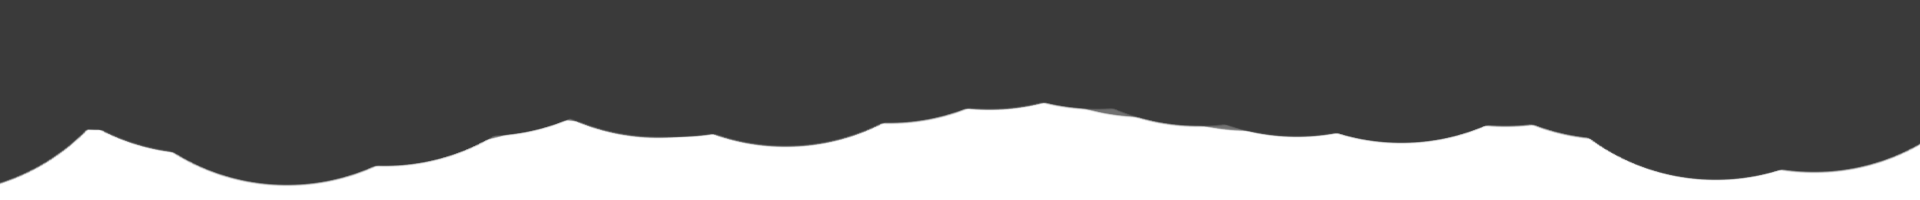
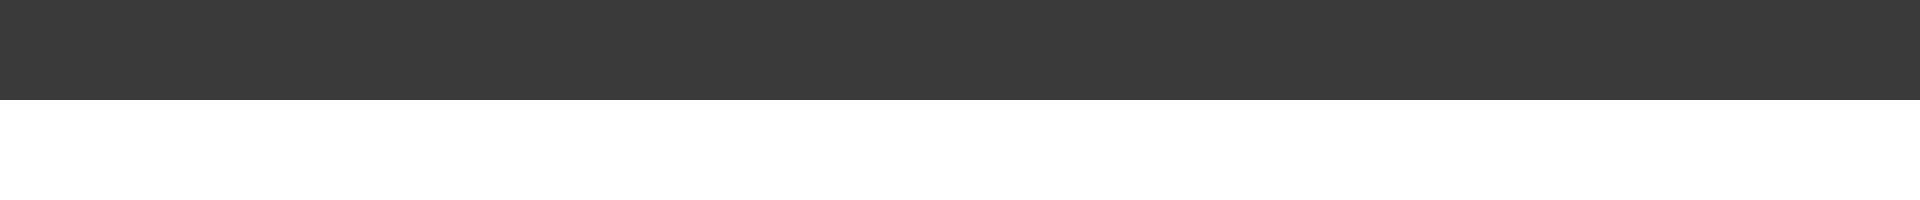
Add files via upload

Changed region(s): [[0.0, 0.48, 1.0, 0.93]]

diff --git a/index.html b/index.html
@@ -25,7 +25,7 @@
 
 		<a name="Arrival"></a>
 
-		<div class="dividerMarginFix">
+		<div class="dividerMarginFix2">
 			<img class="center-expand" src="Border-Arrival_Light.png">
 		</div>
 
@@ -44,7 +44,7 @@
 			<br /> Hannah:   <b><i>That’s it.</i></b>
 			
 			<p>I turn, readying my <b><i>I called it</i></b> look... no response from Natalie.</p>
-			<p>Non-zero-sum games are central to <em>Game Theory</em> and a personal fascination. This site is not a primer on the subject, but something personal that explores ducks in and out of this subject, and uses it to make sense of life.</p>
+			<p>Non-zero-sum games are central to <em>Game Theory</em> and are a personal fascination. This site is not a primer on non-zero-sum games or game theory, but a personal exploration that ducks in and out of these subjects. The non-zero-sum game underpins much of my thinking and creativity. I am a creative generalist and this psuedo-blog will be made up of essays, games, artwork and video - that illustrate one person's attempt to understand the nature of existence.</p>
 
 		</div>
 
@@ -65,6 +65,9 @@
 					<li><a href="#Arrival">Arrival</a></li>
 					<li><a href="#Navigation">Navigation</a></li>
 					<li><a href="#Memories01">Memories: A Recurring Dream</a></li>
+					<li><a href="#InfiniteRant">Infinite Rant</a></li>
+					<li><a href="#Graviton">Graviton</a></li>
+					<li><a href="#CosmicLottery">The Cosmic Lottery</a></li>
 				</ul>
 
 				<p>Many of these experiments are hosted at the fabulous indie game site <a href="https://nonzerosum.itch.io" target="_blank">itch.io</a></p>
@@ -93,6 +96,75 @@
 		<br>
 		<br>
 
+		<div class="dividerMarginFix">
+			<img class="center-expand" src="Border-Nodes_Dark.png">
+		</div>
 	</section>
+
+	<section id="Dark">
+
+		<a name="InfiniteRant"></a>
+		
+		<div class="textbox">
+				<h1>INFINITE RANT</h1>
+			<p>A non-linear interactive essay, that got away on me somewhat...</p>
+			  <br>
+		</div>
+
+		<div style="width: 960px; height: 590px; overflow: hidden; display: inline-block;">
+			<iframe frameborder="0" src="https://itch.io/embed-upload/1854410?color=333333" allowfullscreen="" width="960" height="640"><a href="https://nonzerosum.itch.io/infinite-rant">Play Infinite Rant on itch.io</a></iframe>
+		</div>
+
+		<div class="dividerMarginFix">
+			<img class="center-expand" src="Border-Light.png">
+		</div>
+	</section>
+
+	<section id="Light">
+
+		<a name="CosmicLottery"></a>
+		
+		<div class="textbox">
+			<div class="left">
+
+			  <h1>THE COSMIC LOTTERY</h1>
+				
+			<p>Imagine you wake up one morning to a phone call, you’ve won a million dollars in the weekly lotto draw, but you don’t remember entering. The operator informs you that the government has, in a bizarre act of wealth redistribution, put your tax dollars towards a single lottery ticket every week for every person in the country. Somehow you have been completely ignorant of this fact for over a decade. You receive your cheque and are handed an NDA, in another bizarre twist it turns out the program is completely secretive, no one knows about this lottery until they win it.
+			<p></p>
+			What are the chances you would win such a competition? Well, since the lottery has been running for 10 years, all of the money each week is allotted to the winner and no one can win twice, you have a 1/2000 chance of winning. Not great odds. However, from the perspective of everyone who is aware of the lottery, the chances of winning are 100%.
+			<p></p>
+			We have no idea how many entries we’ve had in the cosmic lottery, but we know that all the other entries that did not win the prize of consciousness are not aware they haven’t won. The fact that we live in a universe where there exists beings that perceive the universe is actually unremarkable, on the contrary it is inescapable. If there were to be other universes or other possible universes that didn’t contain agents capable of perception they would never be perceived.</p>
+			  <br>
+            </div>
+		</div>
+
+		<div class="dividerMarginFix">
+			<img class="center-expand" src="Border-Nodes_Dark.png">
+		</div>
+	</section>
+
+	<section id="Dark">
+
+		<a name="Graviton"></a>
+		
+		<div class="textbox">
+			<div class="left">
+
+			  <h1>GRAVITON</h1>
+				
+			  <p>Now, I’m no physicist… but bear with me, we all have to make sense things and this is my attempt to, I’ll try to keep it science-y. In a sense the universe itself may be inevitable. If you look at the way particles can interact, they can either pull or push other particles - this is all they can do. But apply this en masse to a field of points, even completely randomly, and you will create patterns - surprisingly lifelike patterns that will remind you of gravitational bodies, atoms, even life forms.</p><p>With no design it seems there may be consistent patterns that are inescapable. This is an idea I have explored in simulation.</p>
+			  <br>
+            </div>
+
+		<div style="width: 980px; height: 520px; overflow: hidden; display: inline-block;">
+			<iframe frameborder="0" src="https://itch.io/embed-upload/812036?color=3a3a3a" allowfullscreen="" width="980" height="540"><a href="https://nonzerosum.itch.io/graviton">Play GRAVITON on itch.io</a></iframe>
+		</div>
+		</div>
+
+		<div class="dividerMarginFix">
+			<img class="center-expand" src="Border-Light.png">
+		</div>
+	</section>
+
 </body>
 </html>

diff --git a/style.css b/style.css
@@ -4,7 +4,7 @@
 	text-align: center;
 	background-color: #3a3a3a;
 	/*font-size: 2vw !important;*/
-	font-size: 12px !important;
+	font-size: 14px !important;
 }
 
 h1 {
@@ -75,6 +75,11 @@ a {
 .dividerMarginFix {
 	margin-bottom: -25px !important;
 	margin-top: -1px !important;
+	/*z-index: -1 !important;*/
+}
+.dividerMarginFix2 {
+	margin-bottom: -25px !important;
+	margin-top: -2px !important;
 	/*z-index: -1 !important;*/
 }
 
